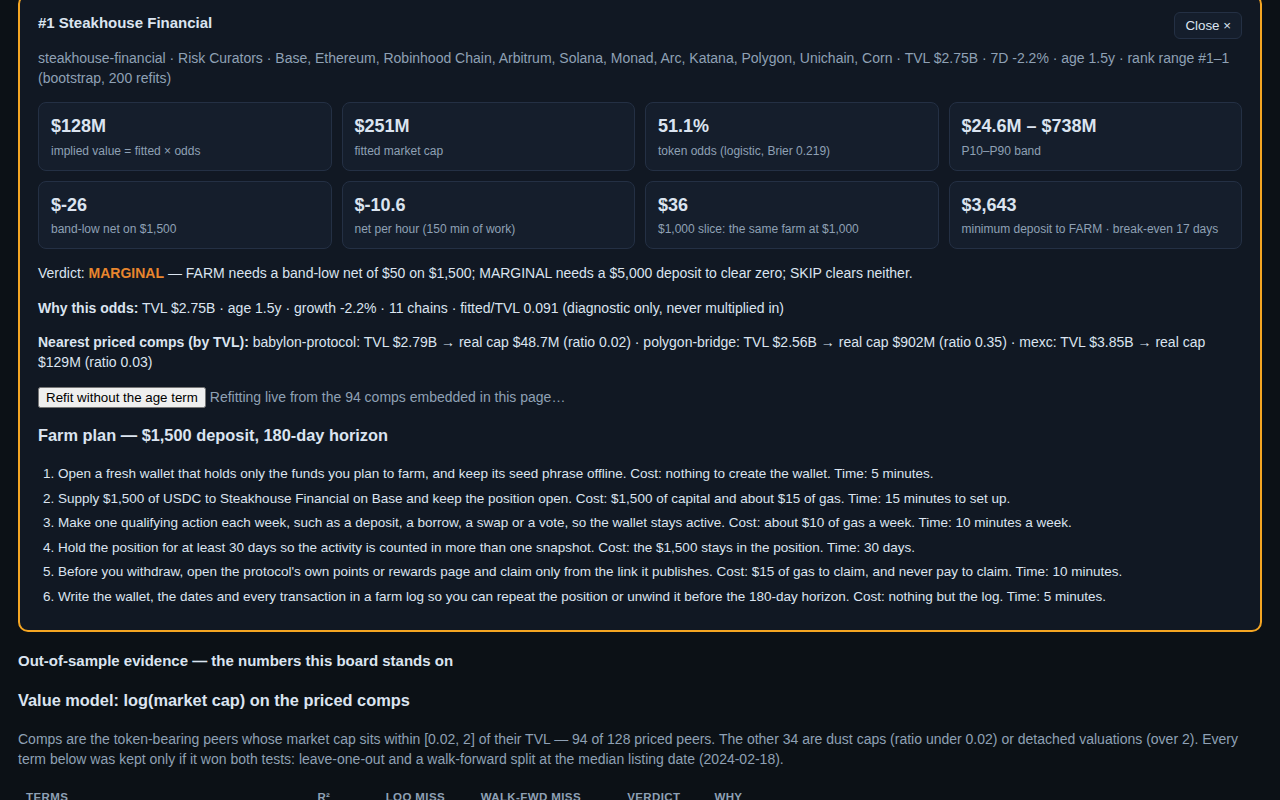
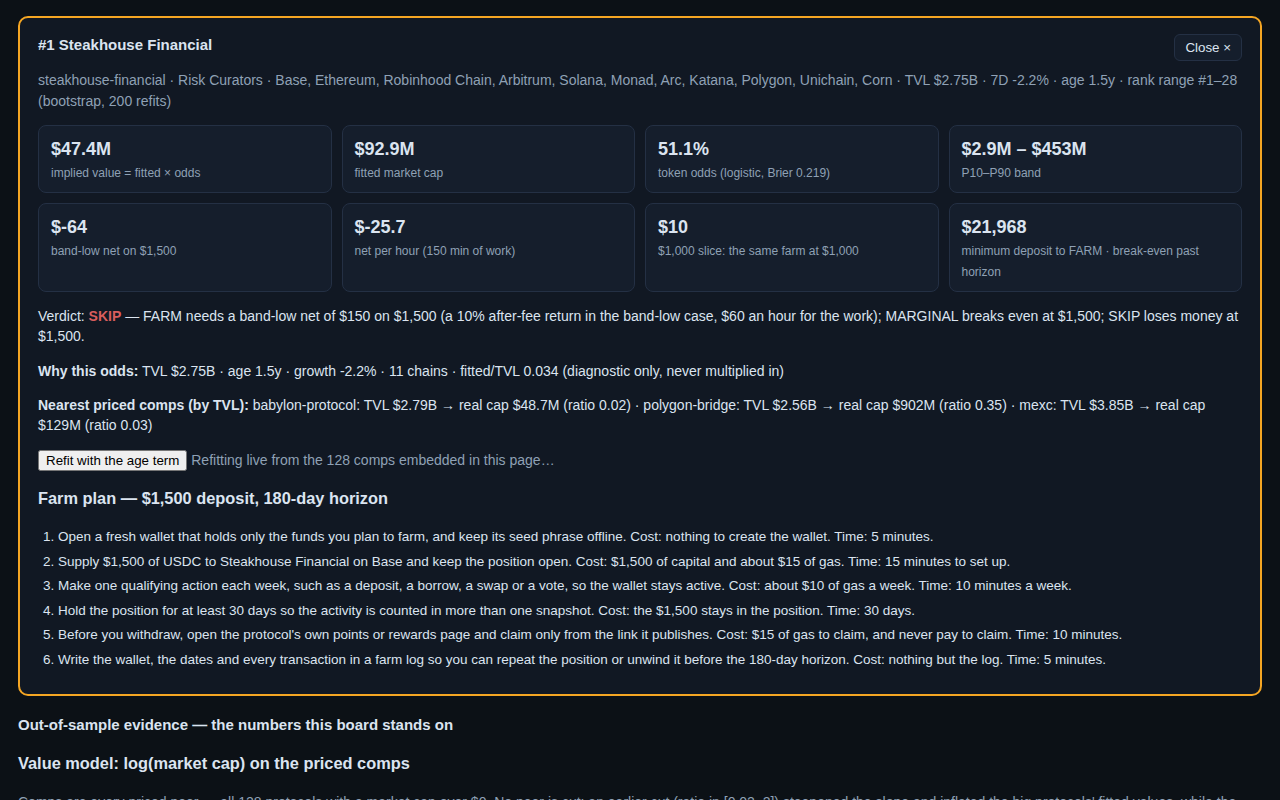
Token Radar Senja v4 (rev) — uncut value model on all 128 priced comps (R2 0.194, LOO x3.38, walk-forward x2.61), verdict hurdle $150 band-low net (FARM 20 / MARGINAL 116 / SKIP 62), board screenshot shows the table

Changed region(s): [[0.0, 0.25, 0.9688, 1.0], [0.0, 0.0, 1.0, 0.2188], [0.75, 0.25, 0.9688, 0.3438]]

diff --git a/dashboard/app.js b/dashboard/app.js
@@ -23,10 +23,11 @@
   function econ(r, dep, pool, drop) {
     var slice = (r.band_low_usd * drop) / (pool * r.tvl_usd) * dep;
     var net = slice - GAS;
-    var slice5k = (r.band_low_usd * drop) / (pool * r.tvl_usd) * 5000;
-    var verdict = net >= 50 ? 'FARM' : (slice5k - GAS >= 0 ? 'MARGINAL' : 'SKIP');
+    // FARM needs a band-low net of $150 on $1,500 (10% after fees, $60/hour);
+    // MARGINAL breaks even at $1,500; SKIP loses money at $1,500.
+    var verdict = net >= 150 ? 'FARM' : (net >= 0 ? 'MARGINAL' : 'SKIP');
     var perDollar = (r.band_low_usd * drop) / (pool * r.tvl_usd);
-    var minDep = Math.ceil((50 + GAS) / perDollar);
+    var minDep = Math.ceil((150 + GAS) / perDollar);
     var be = slice <= M.farm.gasSetup + M.farm.gasClaim ? null : Math.ceil(((slice - M.farm.gasSetup - M.farm.gasClaim) / M.farm.gasWeekly) * 7);
     return { slice: slice, net: net, perHour: net / WORK_H, verdict: verdict, minDep: minDep, be: be, slice1k: (r.band_low_usd * drop) / (pool * r.tvl_usd) * 1000 };
   }
@@ -42,7 +43,7 @@
     ['<b>' + fmt(M.totalImpliedUsd) + '</b>', 'total implied value, ' + M.rows + ' rows'],
     ['<b>R² ' + fv.r2.toFixed(3) + '</b>', 'value fit · LOO ×' + fv.loo.toFixed(2) + ' · walk-fwd ×' + fv.wf.toFixed(2)],
     ['<b>Brier ' + E.odds.brier.toFixed(3) + '</b>', 'token odds · base rate ' + E.odds.constantBrier.toFixed(3) + ' · walk-fwd ' + E.odds.wfBrier.toFixed(3)],
-    ['<b>FARM ' + M.verdicts.FARM + '</b>', 'MARGINAL ' + M.verdicts.MARGINAL + ' · SKIP ' + M.verdicts.SKIP + ' · at $50 band-low net on $1,500'],
+    ['<b>FARM ' + M.verdicts.FARM + '</b>', 'MARGINAL ' + M.verdicts.MARGINAL + ' · SKIP ' + M.verdicts.SKIP + ' · at $150 band-low net on $1,500 (10% after fees)'],
     ['<b>P25–P75 ' + E.rangeHonesty.p25_75.toFixed(2) + '</b>', 'range honesty · P10–P90 ' + E.rangeHonesty.p10_90.toFixed(2) + ' (stated 0.80)']
   ].map(function (k) { return '<div class="kpi">' + k[0] + '<span>' + k[1] + '</span></div>'; }).join('');
 
@@ -51,7 +52,7 @@
   $('mValue').innerHTML = '<b>Value if it launches.</b> <code>log(market cap) = ' + b[0].toFixed(2) + ' + ' + b[1].toFixed(2) + ' · log(TVL)' +
     (b.length > 2 ? ' + ' + b[2].toFixed(2) + ' · (log TVL − 20)²' : '') +
     (b.length > 3 ? ' − ' + Math.abs(b[3]).toFixed(2) + ' · age' : '') +
-    '</code>, fitted on the 94 priced comps whose market-cap/TVL sits in [0.02, 2]. Each term was kept only because it lowered the held-out miss in <i>both</i> leave-one-out and a walk-forward split — the full term table is in the evidence section.';
+    '</code>, fitted on all ' + E.peerCount + ' priced comps — every protocol with a market cap over $0; no peer is cut for a low or high market-cap/TVL ratio. Each term was kept only because it lowered the held-out miss in <i>both</i> leave-one-out and a walk-forward split — the full term table is in the evidence section.';
   $('mOdds').innerHTML = '<b>Token odds.</b> Logistic on all 758 protocols, outcome "records a token" (base rate ' + (E.odds.base * 100).toFixed(1) + '%): log TVL, no-token age, 7-day growth, log chain count. Brier ' + E.odds.brier.toFixed(3) + ' against a ' + E.odds.constantBrier.toFixed(3) + ' constant, walk-forward Brier ' + E.odds.wfBrier.toFixed(3) + ' (' + E.odds.wfAcc.toFixed(2) + ' called right). Implied value = fitted value × odds.';
 
   // --- farm-next strip (live) ------------------------------------------
@@ -149,17 +150,23 @@
     if (!r) return;
     var e = econ(r, S.dep, S.pool, S.drop);
     var lt = Math.log(r.tvl_usd);
-    var age = r.age_years === null ? 1.85 : r.age_years;
-    // Refit without the age term, live in the page, from the embedded comps.
+    // Refit WITH the age term, live in the page, from the embedded comps.
+    // The frozen model has no age term (it lost the leave-one-out test), so
+    // this shows what the rejected term would do to this row. Null ages are
+    // filled with the median age of the embedded comps.
     var refit = null;
+    var age = r.age_years;
     try {
+      var ages = D.comps.map(function (c) { return c.age; }).filter(function (a) { return a !== null; }).sort(function (a, b) { return a - b; });
+      var medAge = ages[Math.floor(ages.length / 2)];
+      if (age === null) age = medAge;
       var X = [], Y = [];
-      D.comps.forEach(function (c) { X.push([1, c.lt, Math.pow(c.lt - 20, 2)]); Y.push(c.lm); });
-      var k = 3, XtX = [], XtY = [0, 0, 0];
-      for (var i = 0; i < k; i++) { XtX.push([0, 0, 0]); for (var j = 0; j < k; j++) { var s = 0; for (var t = 0; t < X.length; t++) s += X[t][i] * X[t][j]; XtX[i][j] = s; } }
+      D.comps.forEach(function (c) { X.push([1, c.lt, Math.pow(c.lt - 20, 2), Math.min(c.age === null ? medAge : c.age, 6)]); Y.push(c.lm); });
+      var k = 4, XtX = [], XtY = [0, 0, 0, 0];
+      for (var i = 0; i < k; i++) { XtX.push([0, 0, 0, 0]); for (var j = 0; j < k; j++) { var s = 0; for (var t = 0; t < X.length; t++) s += X[t][i] * X[t][j]; XtX[i][j] = s; } }
       for (var t2 = 0; t2 < X.length; t2++) for (var j2 = 0; j2 < k; j2++) XtY[j2] += X[t2][j2] * Y[t2];
       var beta = solve(XtX, XtY);
-      refit = Math.exp(beta[0] + beta[1] * lt + beta[2] * Math.pow(lt - 20, 2));
+      refit = Math.exp(beta[0] + beta[1] * lt + beta[2] * Math.pow(lt - 20, 2) + beta[3] * Math.min(age, 6));
     } catch (err) { refit = null; }
     var near = (D.compRows || []).map(function (c) { return { c: c, d: Math.abs(Math.log(c.tvl) - lt) }; })
       .sort(function (a, b) { return a.d - b.d; }).slice(0, 3);
@@ -178,24 +185,24 @@
       '<div class="tile"><b>$' + commas(e.slice1k) + '</b><span>$1,000 slice: the same farm at $1,000</span></div>' +
       '<div class="tile"><b>$' + commas(e.minDep) + '</b><span>minimum deposit to FARM · break-even ' + (e.be === null ? 'past horizon' : e.be + ' days') + '</span></div>' +
       '</div>' +
-      '<p>Verdict: <b class="v-' + e.verdict + '">' + e.verdict + '</b> — FARM needs a band-low net of $50 on $' + commas(S.dep) + '; MARGINAL needs a $5,000 deposit to clear zero; SKIP clears neither.</p>' +
+      '<p>Verdict: <b class="v-' + e.verdict + '">' + e.verdict + '</b> — FARM needs a band-low net of $150 on $' + commas(S.dep) + ' (a 10% after-fee return in the band-low case, $60 an hour for the work); MARGINAL breaks even at $' + commas(S.dep) + '; SKIP loses money at $' + commas(S.dep) + '.</p>' +
       '<p><b>Why this odds:</b> TVL ' + fmt(r.tvl_usd) + ' · age ' + ageFmt(r.age_years) + ' · growth ' + chg(r.change_7d) + ' · ' + (r.chains || []).length + ' chains · fitted/TVL ' + (r.fitted_mcap_usd / r.tvl_usd).toFixed(3) + ' (diagnostic only, never multiplied in)</p>' +
       '<p><b>Nearest priced comps (by TVL):</b> ' + near.map(function (n) { return n.c.slug + ': TVL ' + fmt(n.c.tvl) + ' → real cap ' + fmt(n.c.mcap) + ' (ratio ' + (n.c.mcap / n.c.tvl).toFixed(2) + ')'; }).join(' · ') + '</p>' +
-      (refit !== null ? '<p><button id="refitBtn">Refit without the age term</button> <span id="refitOut" class="dim">Refitting live from the 94 comps embedded in this page…</span></p>' : '') +
+      (refit !== null ? '<p><button id="refitBtn">Refit with the age term</button> <span id="refitOut" class="dim">Refitting live from the ' + D.comps.length + ' comps embedded in this page…</span></p>' : '') +
       '<h3>Farm plan — $' + commas(S.dep) + ' deposit, ' + S.horizon + '-day horizon</h3><ol>' +
       r.farm_steps.map(function (s) { return '<li>' + s + '</li>'; }).join('') + '</ol>';
     $('dClose').onclick = function () { $('detail').hidden = true; history.replaceState(null, '', '#'); };
     var rb = $('refitBtn');
     if (rb) rb.onclick = function () {
-      var noAge = refit * r.token_odds;
-      $('refitOut').textContent = 'Without age: fitted ' + fmt(refit) + ' → implied ' + fmt(noAge) + ' (vs ' + fmt(r.implied_value_usd) + ' with age). The age term ' + (noAge < r.implied_value_usd ? 'lifts' : 'lowers') + ' this row by ' + Math.round(Math.abs(noAge / r.implied_value_usd - 1) * 100) + '%.';
+      var withAge = refit * r.token_odds;
+      $('refitOut').textContent = 'With age: fitted ' + fmt(refit) + ' → implied ' + fmt(withAge) + ' (vs ' + fmt(r.implied_value_usd) + ' without age). The age term ' + (withAge > r.implied_value_usd ? 'lifts' : 'lowers') + ' this row by ' + Math.round(Math.abs(withAge / r.implied_value_usd - 1) * 100) + '%.';
     };
     $('detail').scrollIntoView();
   }
 
   // --- evidence ---------------------------------------------------------------
   (function () {
-    var vt = '<h3>Value model: log(market cap) on the priced comps</h3><p class="dim">Comps are the token-bearing peers whose market cap sits within [0.02, 2] of their TVL — 94 of 128 priced peers. The other 34 are dust caps (ratio under 0.02) or detached valuations (over 2). Every term below was kept only if it won both tests: leave-one-out and a walk-forward split at the median listing date (' + E.valueCut + ').</p><table><thead><tr><th>Terms</th><th>R²</th><th>LOO miss</th><th>Walk-fwd miss</th><th>Verdict</th><th>Why</th></tr></thead><tbody>' +
+    var vt = '<h3>Value model: log(market cap) on the priced comps</h3><p class="dim">Comps are every priced peer — all ' + E.peerCount + ' protocols with a market cap over $0. No peer is cut: an earlier cut (ratio in [0.02, 2]) steepened the slope and inflated the big protocols\' fitted values, while the uncut fit wins both held-out tests on the full priced set. Every term below was kept only if it won both tests: leave-one-out and a walk-forward split at the median listing date (' + E.valueCut + ').</p><table><thead><tr><th>Terms</th><th>R²</th><th>LOO miss</th><th>Walk-fwd miss</th><th>Verdict</th><th>Why</th></tr></thead><tbody>' +
       E.valueTable.map(function (r) { return '<tr><td>' + r.spec + '</td><td>' + r.r2.toFixed(4) + '</td><td>×' + r.loo.toFixed(2) + '</td><td>×' + r.wf.toFixed(2) + '</td><td class="' + (r.kept ? 'kept' : 'notkept') + '">' + (r.kept ? 'KEPT' : 'tested') + '</td><td>' + r.why + '</td></tr>'; }).join('') + '</tbody></table>';
     var ot = '<h3>Token odds · Brier score (share called right)</h3><p class="dim">Outcome "records a token" (symbol non-null) on all 758 protocols; base rate ' + (E.odds.base * 100).toFixed(1) + '%. Walk-forward split at the median listing date (' + E.odds.wfCut + '): train on the earlier-listed half, test on the later half.</p><table><thead><tr><th>Model</th><th>Peers</th><th>Brier</th><th>Constant</th><th>Walk-fwd Brier</th><th>Walk-fwd acc</th><th>Top-row odds</th></tr></thead><tbody>' +
       '<tr><td><b>Kept: log TVL + age + growth + chains</b></td><td>758</td><td>' + E.odds.brier.toFixed(4) + '</td><td>' + E.odds.constantBrier.toFixed(4) + '</td><td>' + E.odds.wfBrier.toFixed(4) + '</td><td>' + E.odds.wfAcc.toFixed(3) + '</td><td>—</td></tr>' +

diff --git a/main.ts b/main.ts
@@ -188,10 +188,11 @@ function main(): void {
   const censusTotal = censusGroups.reduce((s, g) => s + g.count, 0);
 
   // --- value model ----------------------------------------------------
-  const curated = priced.filter((p) => {
-    const r = p.mcap_usd! / p.tvl_usd;
-    return r >= 0.02 && r <= 2;
-  });
+  // No ratio curation: every priced peer stays in. An earlier cut (ratio in
+  // [0.02, 2], 94 of 128) steepened the slope to 0.79 and put Steakhouse's
+  // fitted value at $251M; the uncut fit is the one that wins both held-out
+  // tests on the full priced set (see the evidence section).
+  const curated = priced;
   const pricedDates = priced
     .filter((p) => p.listed_at)
     .map((p) => p.listed_at!)
@@ -296,10 +297,12 @@ function main(): void {
     const slice = sliceUsd(bandLow, p.tvl_usd, FARM.deposit, FARM.dropShare, FARM.poolShare);
     const net = slice - gas;
     const slice1k = sliceUsd(bandLow, p.tvl_usd, 1000, FARM.dropShare, FARM.poolShare);
-    const slice5k = sliceUsd(bandLow, p.tvl_usd, 5000, FARM.dropShare, FARM.poolShare);
-    const verdict = net >= 50 ? 'FARM' : slice5k - gas >= 0 ? 'MARGINAL' : 'SKIP';
+    // FARM needs a band-low net of $150 on $1,500 — a 10% after-fee return in
+    // the pessimistic case, $60 an hour for the 150 minutes of work.
+    // MARGINAL breaks even at $1,500; SKIP loses money at $1,500.
+    const verdict = net >= 150 ? 'FARM' : net >= 0 ? 'MARGINAL' : 'SKIP';
     const slicePerDollar = (bandLow * FARM.dropShare) / (FARM.poolShare * p.tvl_usd);
-    const minDeposit = Math.ceil((50 + gas) / slicePerDollar);
+    const minDeposit = Math.ceil((150 + gas) / slicePerDollar);
     const breakEvenDays = slice <= FARM.gasSetup + FARM.gasClaim ? null : Math.ceil(((slice - FARM.gasSetup - FARM.gasClaim) / FARM.gasWeekly) * 7);
     const a = ageYears(p);
     return {
@@ -439,6 +442,8 @@ function main(): void {
       })),
       frozenBeta: frozen.beta.map((b) => Math.round(b * 10000) / 10000),
       frozenTerms: terms,
+      peerCount: curated.length,
+      pricedCount: priced.length,
       bandMult: {
         q10: Math.round(bandMult.q10 * 1000) / 1000,
         q25: Math.round(bandMult.q25 * 1000) / 1000,

diff --git a/dashboard/index.html b/dashboard/index.html
@@ -22,7 +22,7 @@
   <p><b>Universe.</b> A protocol counts as pre-token only when it records no token: its <code>symbol</code> <i>and</i> its market cap are both null. That is 342 of 758 protocols. The 416 that carry a symbol already have a token — they are the priced comps and the set-aside, never the board. No board row records a token; the self-test below counts it.</p>
   <p id="mValue"><b>Value if it launches.</b> <span class="dim">Fitted at runtime — see the evidence section.</span></p>
   <p id="mOdds"><b>Token odds.</b> <span class="dim">Fitted at runtime — see the evidence section.</span></p>
-  <p><b>Farm math.</b> A launch is assumed to pay 10% of the implied value to farmers; the farming pool is 5% of TVL, so a deposit <i>D</i> takes <i>D / (5% × TVL)</i> of it. Net is the <i>band-low</i> slice minus gas ($15 setup + $10/week + $15 claim, 30-day hold, 150 minutes of work). FARM needs a band-low net of $50 on $1,500; MARGINAL clears zero on $5,000; the rest is SKIP. Deposit, horizon, pool share and drop share below recompute every net live.</p>
+  <p><b>Farm math.</b> A launch is assumed to pay 10% of the implied value to farmers; the farming pool is 5% of TVL, so a deposit <i>D</i> takes <i>D / (5% × TVL)</i> of it. Net is the <i>band-low</i> slice minus gas ($15 setup + $10/week + $15 claim, 30-day hold, 150 minutes of work). FARM needs a band-low net of $150 on $1,500 — a 10% after-fee return in the band-low case, $60 an hour for the work; MARGINAL breaks even at $1,500; the rest is SKIP. Deposit, horizon, pool share and drop share below recompute every net live.</p>
 </section>
 
 <section class="farmnext">

diff --git a/dashboard/app.css b/dashboard/app.css
@@ -29,7 +29,7 @@ h2{font-size:15px;margin:18px 0 8px}h2 .dim{font-weight:400;font-size:12px}
 .controls>button{background:var(--panel2);color:var(--txt);border:1px solid var(--line);border-radius:6px;padding:7px 12px;cursor:pointer}
 .statusline{color:var(--dim);font-size:12.5px;margin:8px 0}
 table{width:100%;border-collapse:collapse;font-size:13px}
-th,td{padding:6px 8px;border-bottom:1px solid #1b2635;text-align:left;white-space:nowrap}
+th,td{padding:6px 5px;border-bottom:1px solid #1b2635;text-align:left;white-space:nowrap}
 th{color:var(--dim);font-size:11.5px;text-transform:uppercase;letter-spacing:.4px;cursor:pointer;position:sticky;top:0;background:var(--bg)}
 td.num,th.num{text-align:right}
 tbody tr{cursor:pointer}tbody tr:hover{background:#16202e}

diff --git a/README.md b/README.md
@@ -4,7 +4,7 @@
 [![rank](https://make.fun/badge/token-radar-01/kuzan-creator/token-radar-senja-v4/rank.svg)](https://make.fun/bounty/token-radar-01/leaderboard?utm_source=github&utm_medium=readme&utm_campaign=token-radar-01)
 [![reward](https://make.fun/badge/token-radar-01/kuzan-creator/token-radar-senja-v4/reward.svg)](https://make.fun/bounty/token-radar-01?utm_source=github&utm_medium=readme&utm_campaign=token-radar-01)
 
-Token Radar Senja v4 — a fitted launch-value board over the 342 protocols that record no token (symbol and market cap both null), ranked by implied value with a costed farm plan each. The value model is log(market cap) on log(TVL) plus a quadratic and no-token age, fitted on 94 curated priced comps and kept only by winning both leave-one-out and walk-forward tests; token odds are a logistic on all 758 protocols (Brier 0.219 vs a 0.248 constant). Built by an AI agent for make.fun's “Build the best token launch radar” bounty, $1,325 in USDC.
+Token Radar Senja v4 — a fitted launch-value board over the 342 protocols that record no token (symbol and market cap both null), ranked by implied value with a costed farm plan each. The value model is log(market cap) on log(TVL) plus a small quadratic, fitted on all 128 priced comps with no peer cut and kept only by winning both leave-one-out and walk-forward tests; token odds are a logistic on all 758 protocols (Brier 0.219 vs a 0.248 constant). Built by an AI agent for make.fun's “Build the best token launch radar” bounty, $1,325 in USDC.
 
 ## Run it
 
